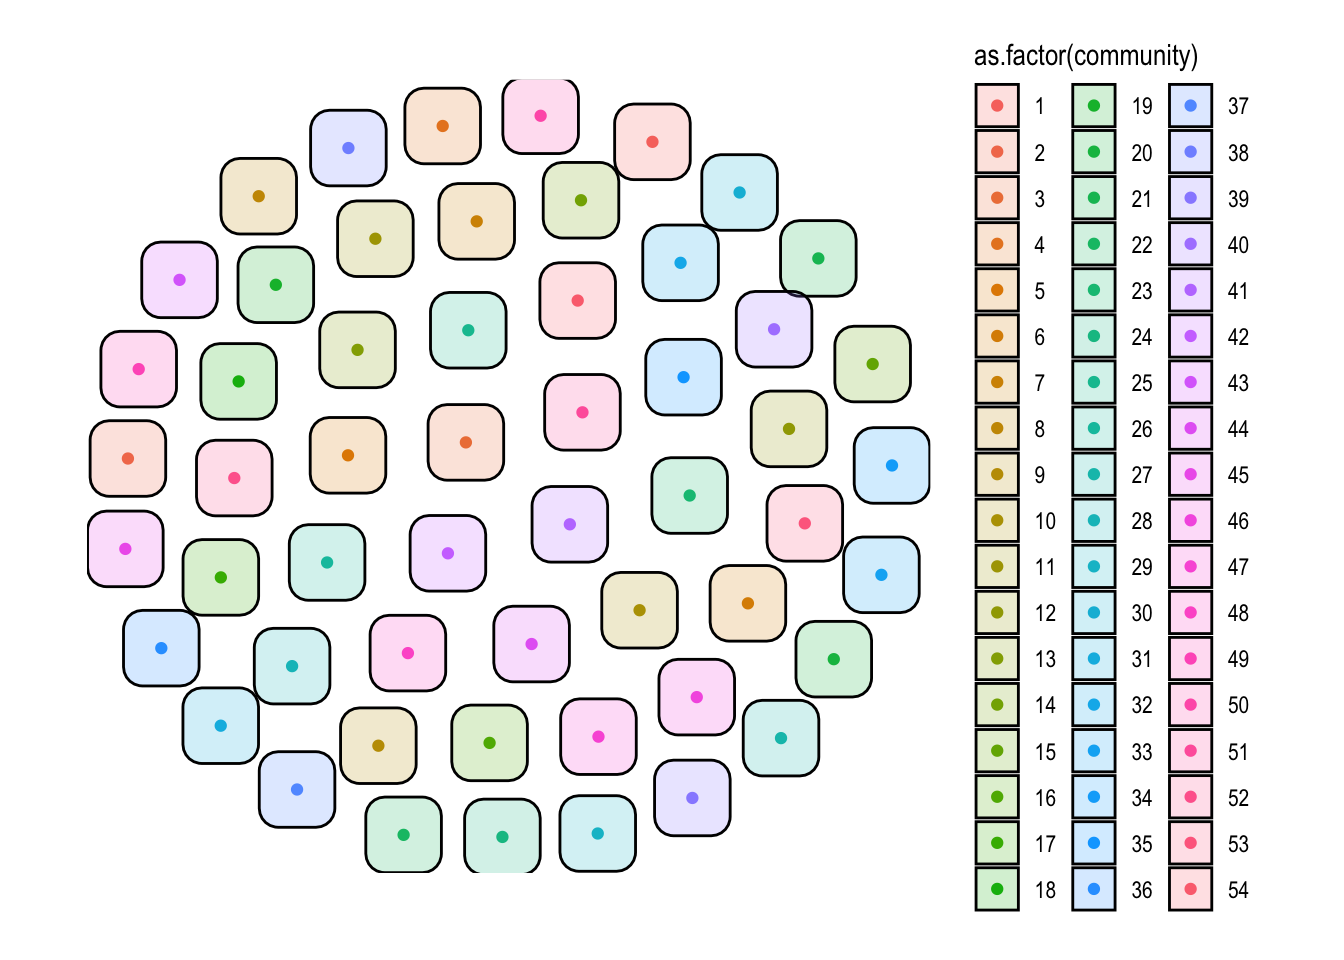
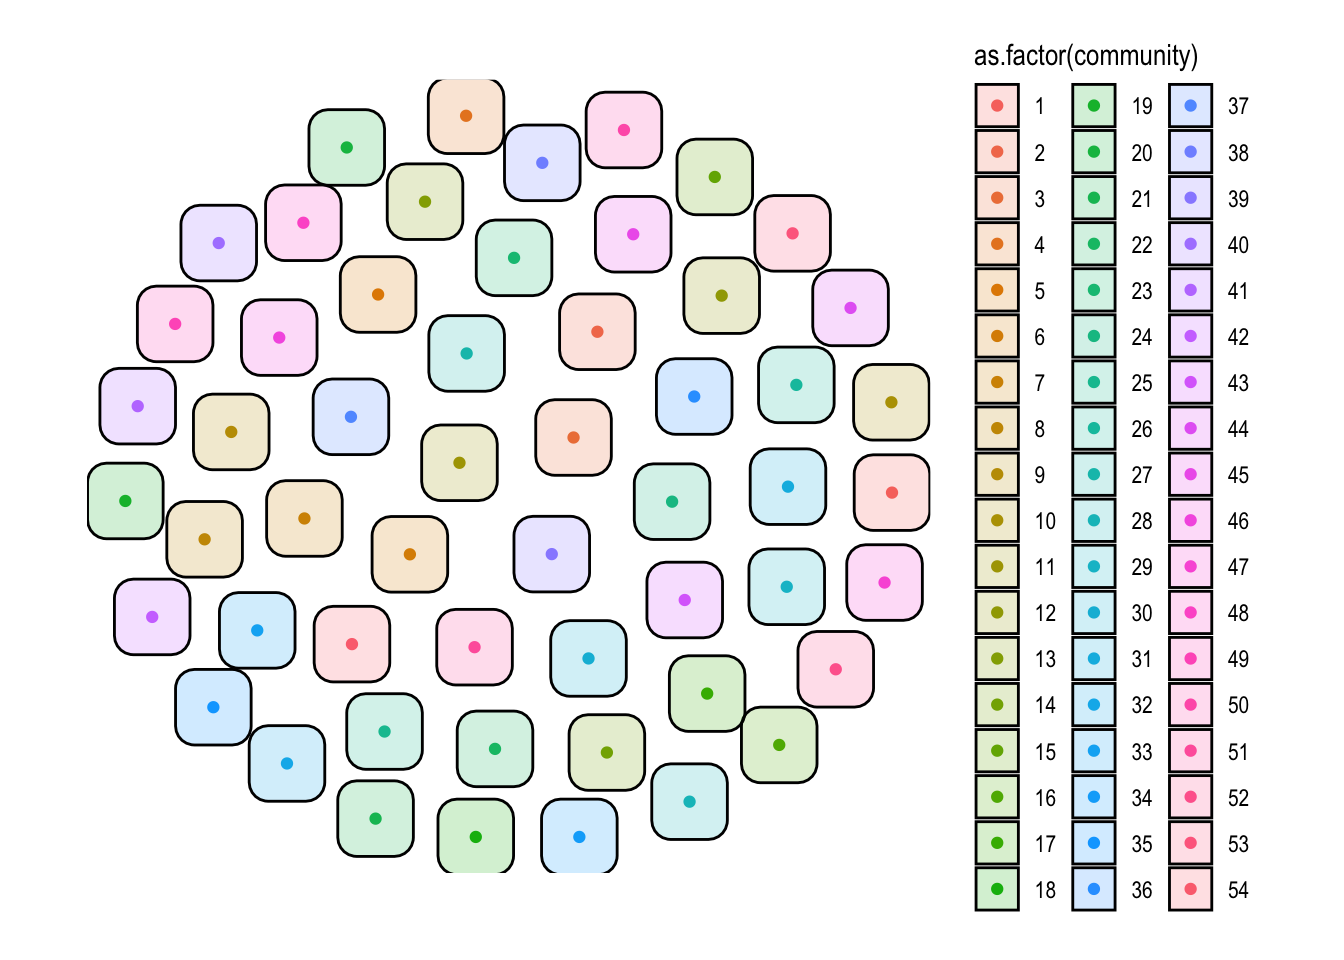
hands-on_exercise6version1

Changed region(s): [[0.0625, 0.0625, 0.7188, 0.9062]]

diff --git a/_site/hands-on_exercise5.html b/_site/hands-on_exercise5.html
@@ -164,6 +164,10 @@ pre > code.sourceCode > span > a:first-child::before { text-decoration: underlin
     <a class="dropdown-item" href="./hands-on_exercise4d.html">
  <span class="dropdown-text">Hands-on Exercise 4d</span></a>
   </li>  
+        <li>
+    <a class="dropdown-item" href="./hands-on_exercise5.html">
+ <span class="dropdown-text">Hands-on Exercise 5</span></a>
+  </li>  
     </ul>
   </li>
   <li class="nav-item dropdown ">
@@ -460,8 +464,8 @@ $ Title      &lt;chr&gt; "Assistant to CEO", "Assistant to CFO", "Assistant to C
 <span id="cb20-3"><a href="#cb20-3" aria-hidden="true" tabindex="-1"></a>  <span class="fu">visEdges</span>(<span class="at">arrows =</span> <span class="st">"to"</span>, <span class="at">smooth =</span> <span class="cn">TRUE</span>) <span class="sc">%&gt;%</span></span>
 <span id="cb20-4"><a href="#cb20-4" aria-hidden="true" tabindex="-1"></a>  <span class="fu">visOptions</span>(<span class="at">highlightNearest =</span> <span class="cn">TRUE</span>, <span class="at">nodesIdSelection =</span> <span class="cn">TRUE</span>)</span></code><button title="Copy to Clipboard" class="code-copy-button"><i class="bi"></i></button></pre></div>
 <div class="cell-output-display">
-<div class="visNetwork html-widget html-fill-item" id="htmlwidget-8a1f59c8277edbe5e2e3" style="width:100%;height:464px;"></div>
-<script type="application/json" data-for="htmlwidget-8a1f59c8277edbe5e2e3">{"x":{"nodes":{"id":[1,2,3,4,5,6,7,44,45,46,8,9,10,11,12,13,14,15,16,21,26,17,18,19,20,39,40,41,42,43,27,28,29,47,48,49,50,22,51,52,53,54,23,24,25,30,31,32,33,34,35,36,37,38],"label":["Mat.Bramar","Anda.Ribera","Rachel.Pantanal","Linda.Lagos","Ruscella.Mies.Haber","Carla.Forluniau","Cornelia.Lais","Kanon.Herrero","Varja.Lagos","Stenig.Fusil","Marin.Onda","Axel.Calzas","Brand.Tempestad","Elsa.Orilla","Isande.Borrasca","Kare.Orilla","Felix.Balas","Lars.Azada","Lidelse.Dedos","Willem.Vasco-Pais","Bertrand.Ovan","Adra.Nubarron","Birgitta.Frente","Gustav.Cazar","Vira.Frente","Linnea.Bergen","Lucas.Alcazar","Isak.Baza","Nils.Calixto","Sven.Flecha","Emile.Arpa","Varro.Awelon","Dante.Coginian","Edvard.Vann","Hennie.Osvaldo","Isia.Vann","Minke.Mies","Sten.Sanjorge.Jr","Felix.Resumir","Hideki.Cocinaro","Inga.Ferro","Loreto.Bodrogi","Ingrid.Barranco","Ada.Campo-Corrente","Orhan.Strum","Adan.Morlun","Albina.Hafon","Benito.Hawelon","Cecilia.Morluniau","Claudio.Hawelon","Dylan.Scozzese","Henk.Mies","Irene.Nant","Valeria.Morlun"],"group":["Administration","Administration","Administration","Administration","Administration","Administration","Administration","Security","Security","Security","Engineering","Engineering","Engineering","Engineering","Engineering","Engineering","Engineering","Engineering","Engineering","Executive","Facilities","Engineering","Engineering","Engineering","Engineering","Information Technology","Information Technology","Information Technology","Information Technology","Information Technology","Facilities","Facilities","Facilities","Security","Security","Security","Security","Executive","Security","Security","Security","Security","Executive","Executive","Executive","Facilities","Facilities","Facilities","Facilities","Facilities","Facilities","Facilities","Facilities","Facilities"],"Title":["Assistant to CEO","Assistant to CFO","Assistant to CIO","Assistant to COO","Assistant to Engineering Group Manager","Assistant to IT Group Manager","Assistant to Security Group Manager","Badging Office","Badging Office","Building Control","Drill Site Manager","Drill Technician","Drill Technician","Drill Technician","Drill Technician","Drill Technician","Engineer","Engineer","Engineering Group Manager","Environmental Safety Advisor","Facilities Group Manager","Geologist","Geologist","Hydraulic Technician","Hydraulic Technician","IT Group Manager","IT Helpdesk","IT Technician","IT Technician","IT Technician","Janitor","Janitor","Lead Janitor","Perimeter Control","Perimeter Control","Perimeter Control","Perimeter Control","President/CEO","Security Group Manager","Site Control","Site Control","Site Control","SVP/CFO","SVP/CIO","SVP/COO","Truck Driver","Truck Driver","Truck Driver","Truck Driver","Truck Driver","Truck Driver","Truck Driver","Truck Driver","Truck Driver"],"x":[0.8664164895825774,0.1626546282476131,0.8062133318618472,-0.09249061077036114,-0.8744107741212642,0.3541502330356434,0.609045090546831,-0.7226193818381099,-0.4479605485419216,0.9360826432896696,-0.2019511276831296,0.3584550602978551,-0.6512275925835396,0.08865469603458531,-0.4470277224356406,-0.6251137553268444,0.07630346029175494,-0.4239863739468028,-1,-0.502998630801977,-0.1830391424743734,0.09542669664538228,0.6558067902680664,-0.3861418829936415,-0.4425712025737747,0.5704728396327889,-0.6736667914609417,-0.1559969421875059,-0.9635831506714588,0.320832510605094,-0.1756007730664501,0.629318267042982,0.806837380515812,-0.1927775902993328,0.4103230220171743,-0.2439030130473325,0.3918087501973044,0.6494028977195554,-0.7303579494503949,-0.9649707540112072,0.3848559790688111,0.1130614671416721,1,0.03088326745417391,0.1405540094384261,-0.4757637861385402,-0.1830725045270649,0.5480170111999088,-0.8095263731290366,0.3602138290243171,0.7141652224197086,-0.7672832736518197,0.9616624297798109,0.09713641478918777],"y":[0.4974247126594673,0.9680259568230503,0.04765115570160217,1,-0.5120065597179122,0.666945153499839,-0.7900748146274901,0.3827422109651559,0.6261302021905648,-0.3412491240913732,-0.138626424060595,-0.6766466145994161,-0.4594059644748267,0.7103102008246371,-0.8909596999237909,0.7817318314005395,-0.7613803722543979,-0.6097216738504238,0.01325159496550188,0.02426820944004549,-0.9883840689735113,-1,0.2671417168598447,0.9242457209881469,-0.2892163514239335,-0.5101818850545783,-0.7402678024237497,-0.4526371687525218,0.3043043632036486,0.09637002106796611,0.5021267316127578,0.5388493465068755,-0.5832858915609715,-0.7416363357160629,0.9078535071768863,0.1962126979160836,-0.299541093022575,0.7688271615819058,-0.1755366816285874,-0.253417347109937,0.386784342856658,-0.2028119233341905,-0.07307289184617582,0.09913283268303585,-0.4955449413075513,0.3526703484175835,0.7738877422642845,-0.04179780190376181,0.5948535492892844,-0.9296733656610369,-0.2613996829751135,0.108755334000352,0.248552637341581,0.4077689146261914]},"edges":{"from":[],"to":[],"Weekday":[],"Weight":[]},"nodesToDataframe":true,"edgesToDataframe":true,"options":{"width":"100%","height":"100%","nodes":{"shape":"dot","physics":false},"manipulation":{"enabled":false},"edges":{"arrows":"to","smooth":true},"physics":{"stabilization":false}},"groups":["Administration","Security","Engineering","Executive","Facilities","Information Technology"],"width":null,"height":null,"idselection":{"enabled":true,"style":"width: 150px; height: 26px","useLabels":true,"main":"Select by id"},"byselection":{"enabled":false,"style":"width: 150px; height: 26px","multiple":false,"hideColor":"rgba(200,200,200,0.5)","highlight":false},"main":null,"submain":null,"footer":null,"background":"rgba(0, 0, 0, 0)","igraphlayout":{"type":"square"},"highlight":{"enabled":true,"hoverNearest":false,"degree":1,"algorithm":"all","hideColor":"rgba(200,200,200,0.5)","labelOnly":true},"collapse":{"enabled":false,"fit":false,"resetHighlight":true,"clusterOptions":null,"keepCoord":true,"labelSuffix":"(cluster)"}},"evals":[],"jsHooks":[]}</script>
+<div class="visNetwork html-widget html-fill-item" id="htmlwidget-9a7813ed94c89c14858f" style="width:100%;height:464px;"></div>
+<script type="application/json" data-for="htmlwidget-9a7813ed94c89c14858f">{"x":{"nodes":{"id":[1,2,3,4,5,6,7,44,45,46,8,9,10,11,12,13,14,15,16,21,26,17,18,19,20,39,40,41,42,43,27,28,29,47,48,49,50,22,51,52,53,54,23,24,25,30,31,32,33,34,35,36,37,38],"label":["Mat.Bramar","Anda.Ribera","Rachel.Pantanal","Linda.Lagos","Ruscella.Mies.Haber","Carla.Forluniau","Cornelia.Lais","Kanon.Herrero","Varja.Lagos","Stenig.Fusil","Marin.Onda","Axel.Calzas","Brand.Tempestad","Elsa.Orilla","Isande.Borrasca","Kare.Orilla","Felix.Balas","Lars.Azada","Lidelse.Dedos","Willem.Vasco-Pais","Bertrand.Ovan","Adra.Nubarron","Birgitta.Frente","Gustav.Cazar","Vira.Frente","Linnea.Bergen","Lucas.Alcazar","Isak.Baza","Nils.Calixto","Sven.Flecha","Emile.Arpa","Varro.Awelon","Dante.Coginian","Edvard.Vann","Hennie.Osvaldo","Isia.Vann","Minke.Mies","Sten.Sanjorge.Jr","Felix.Resumir","Hideki.Cocinaro","Inga.Ferro","Loreto.Bodrogi","Ingrid.Barranco","Ada.Campo-Corrente","Orhan.Strum","Adan.Morlun","Albina.Hafon","Benito.Hawelon","Cecilia.Morluniau","Claudio.Hawelon","Dylan.Scozzese","Henk.Mies","Irene.Nant","Valeria.Morlun"],"group":["Administration","Administration","Administration","Administration","Administration","Administration","Administration","Security","Security","Security","Engineering","Engineering","Engineering","Engineering","Engineering","Engineering","Engineering","Engineering","Engineering","Executive","Facilities","Engineering","Engineering","Engineering","Engineering","Information Technology","Information Technology","Information Technology","Information Technology","Information Technology","Facilities","Facilities","Facilities","Security","Security","Security","Security","Executive","Security","Security","Security","Security","Executive","Executive","Executive","Facilities","Facilities","Facilities","Facilities","Facilities","Facilities","Facilities","Facilities","Facilities"],"Title":["Assistant to CEO","Assistant to CFO","Assistant to CIO","Assistant to COO","Assistant to Engineering Group Manager","Assistant to IT Group Manager","Assistant to Security Group Manager","Badging Office","Badging Office","Building Control","Drill Site Manager","Drill Technician","Drill Technician","Drill Technician","Drill Technician","Drill Technician","Engineer","Engineer","Engineering Group Manager","Environmental Safety Advisor","Facilities Group Manager","Geologist","Geologist","Hydraulic Technician","Hydraulic Technician","IT Group Manager","IT Helpdesk","IT Technician","IT Technician","IT Technician","Janitor","Janitor","Lead Janitor","Perimeter Control","Perimeter Control","Perimeter Control","Perimeter Control","President/CEO","Security Group Manager","Site Control","Site Control","Site Control","SVP/CFO","SVP/CIO","SVP/COO","Truck Driver","Truck Driver","Truck Driver","Truck Driver","Truck Driver","Truck Driver","Truck Driver","Truck Driver","Truck Driver"],"x":[0.4283497071399021,-0.2749837988802417,-0.569716207340224,0.6716940478316604,-0.566882662219565,-0.03524943332126851,0.1068281862377203,-0.8990287778207711,0.8312543869570088,-0.4110417519112016,0.6413953513223627,-0.7440331173540278,-0.4074632549705937,0.8362271952544003,-0.7027830067772516,0.5003710324649357,-0.07722508143829654,0.07847994658179935,-0.0266187143465314,0.1988323533625354,0.4142006702725676,0.6616297615264459,0.2235582531361493,-0.2045969128498599,-0.6017681120573994,-0.7105474439870217,1,0.2710653966481622,0.635854883875153,0.7320561083991464,0.2638449517193937,-0.8143263242055275,0.2070019467852167,-1,0.962643681026953,-0.3245844560010089,-0.9468551236522376,-0.7645425227003947,0.4721570917959732,0.2900320927539453,-0.4288715769552024,-0.2285123633648057,-0.1318551704632781,0.5265601883042348,0.4011094341994126,-0.1492168248634445,0.8003347338750604,-0.5380975681529719,-0.4891456740108234,-0.2866054567906289,0.9629733809269301,0.05887327243664298,-0.02335550538976416,-0.9816831131698184],"y":[-0.486988211576171,-0.6520318568232777,-0.60692035995139,-0.3783906520540632,-0.8346476854709994,1,0.7825971223056158,0.4459916357138463,0.5708631334486578,0.6504926890136549,0.784411541256286,0.6713951308154018,-0.09660009392423918,-0.5596759969500187,-0.3238245591264537,-0.142287672033377,-1,-0.5256225253161946,-0.07864810540703471,-0.9682788490469435,0.2905322237161916,0.1049891156451743,-0.2689112480696187,0.1468949605066814,0.4592125277605645,-0.05612238314992801,0.01961327244193689,0.9821534161413559,-0.7047694906108105,0.3497261996950674,0.05595000796583371,-0.5953760395008235,0.5368847873070894,0.1679102605384408,-0.2996973950115748,-0.9190466385305769,-0.3426963102557782,0.2129994638087069,-0.8847392155338308,-0.7174921700808423,-0.3805193871150139,0.4408146777395054,0.7002904713178779,0.5424065109750771,0.784683108667561,-0.3513882753790052,-0.1182835862340558,0.8539484373217865,0.205165704249979,0.9409993848170772,0.2748197805417065,0.3099410895049532,-0.7683061305178907,-0.08917913918908327]},"edges":{"from":[],"to":[],"Weekday":[],"Weight":[]},"nodesToDataframe":true,"edgesToDataframe":true,"options":{"width":"100%","height":"100%","nodes":{"shape":"dot","physics":false},"manipulation":{"enabled":false},"edges":{"arrows":"to","smooth":true},"physics":{"stabilization":false}},"groups":["Administration","Security","Engineering","Executive","Facilities","Information Technology"],"width":null,"height":null,"idselection":{"enabled":true,"style":"width: 150px; height: 26px","useLabels":true,"main":"Select by id"},"byselection":{"enabled":false,"style":"width: 150px; height: 26px","multiple":false,"hideColor":"rgba(200,200,200,0.5)","highlight":false},"main":null,"submain":null,"footer":null,"background":"rgba(0, 0, 0, 0)","igraphlayout":{"type":"square"},"highlight":{"enabled":true,"hoverNearest":false,"degree":1,"algorithm":"all","hideColor":"rgba(200,200,200,0.5)","labelOnly":true},"collapse":{"enabled":false,"fit":false,"resetHighlight":true,"clusterOptions":null,"keepCoord":true,"labelSuffix":"(cluster)"}},"evals":[],"jsHooks":[]}</script>
 </div>
 </div>
 

diff --git a/_site/take-home_exercise1.html b/_site/take-home_exercise1.html
@@ -160,6 +160,10 @@ pre > code.sourceCode > span > a:first-child::before { text-decoration: underlin
     <a class="dropdown-item" href="./hands-on_exercise4d.html">
  <span class="dropdown-text">Hands-on Exercise 4d</span></a>
   </li>  
+        <li>
+    <a class="dropdown-item" href="./hands-on_exercise5.html">
+ <span class="dropdown-text">Hands-on Exercise 5</span></a>
+  </li>  
     </ul>
   </li>
   <li class="nav-item dropdown ">
